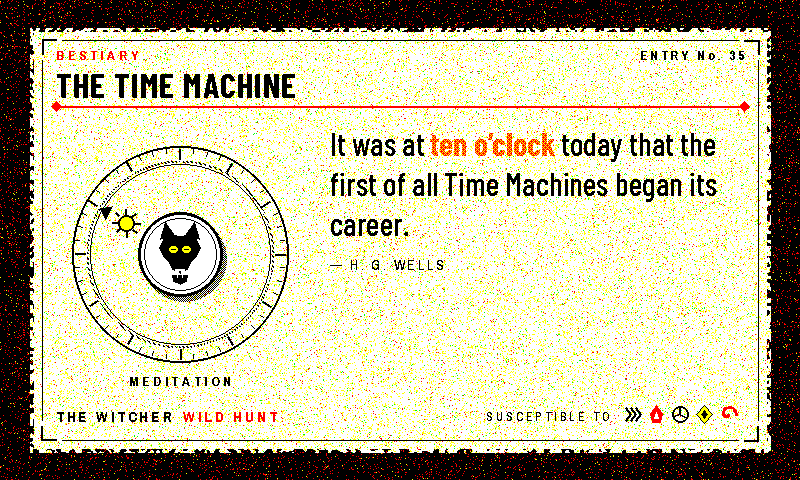
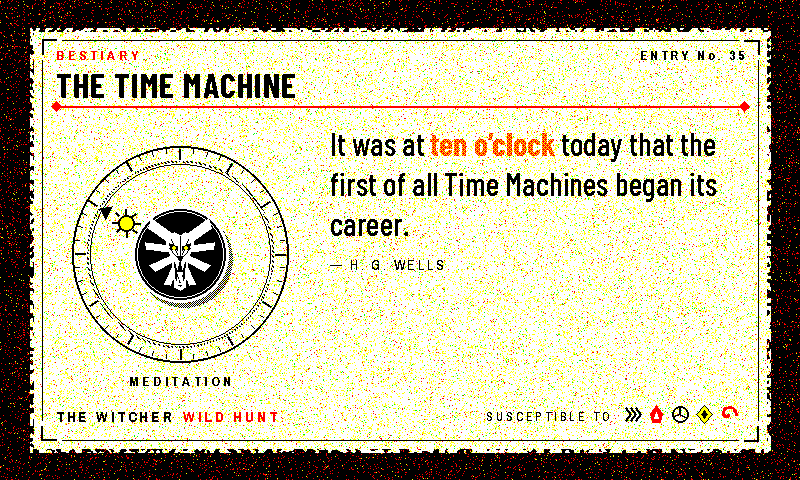
witcher: redraw the medallion after the Wolf School emblem
The first wolf was a generic heraldic head. Redrawn after the game's
medallion, without tracing it: a burst of spikes and horns, a faceted
brow with facet lines cut back in black, slit eyes with a yellow glint,
and the long open jaw with fangs and tongue, in the emblem's own ink —
white on a black disc in a silver double ring. The emblem is a fixed
point list in a 100-unit box, mirrored about the centre line and scaled
to sit inside the inner ring. Golden and preview re-baselined.

Claude-Session: https://claude.ai/code/session_01BdVeHQzCtEYWsdWNe7d8PR

Changed region(s): [[0.1562, 0.4375, 0.3125, 0.6562]]

diff --git a/idle_hours/render_quote.py b/idle_hours/render_quote.py
@@ -31733,12 +31733,15 @@ def render_expedition_frame(time_str: str, quote_row: dict, width: int, height: 
 # with the matched phrase. Nothing prints a digit, nothing reads the wall
 # clock.
 #
-# **The medallion** is the School of the Wolf's: a silver disc (white, with
-# a black stipple shadow cast lower-right) in a double ring, carrying a
-# heraldic wolf's head in black ink — pricked ears, broad brow, open jaw,
-# white fangs, and the eyes the one yellow on the page besides the sun.
-# Drawn from a fixed point list in a 100-unit design box and scaled, so it
-# is the same wolf at every size.
+# **The medallion** is the School of the Wolf's, redrawn after the emblem
+# rather than traced from it (the original is CD Projekt's mark): a black
+# disc with a stipple shadow cast lower-right, in a silver double ring,
+# carrying the wolf in the emblem's own ink — a burst of eight spikes and
+# two horns, a faceted brow with facet lines cut back in black, slit eyes
+# with a yellow glint, and the long open jaw hanging below with its fangs
+# and tongue. Every polygon is a fixed point list in a 100-unit design box,
+# mirrored about the centre line and scaled, so it is the same wolf at
+# every size.
 #
 # **The page** is the ``tarot`` vellum recipe — a Y+W cream under a sparse
 # R+G foxing — inside a deckled edge: the page mask's outer band is eaten
@@ -31776,7 +31779,7 @@ _WITCHER_HEADER_Y = 48
 _WITCHER_HEADER_RULE_Y = 106
 _WITCHER_DIAL_CENTRE = (180, 254)
 _WITCHER_DIAL_RADIUS = 108
-_WITCHER_MEDALLION_RADIUS = 42
+_WITCHER_MEDALLION_RADIUS = 48
 _WITCHER_QUOTE_RECT = (330, 124, 742, 362)
 _WITCHER_ATTRIBUTION_TOP = 372
 _WITCHER_FOOT_Y = 404
@@ -31784,16 +31787,31 @@ _WITCHER_SIGNS_RIGHT = 742
 _WITCHER_CREAM_DENSITY = 0.14
 _WITCHER_FOXING_DENSITY = 0.03
 _WITCHER_PAGE: dict = {}
-# The wolf, in a 100-unit box, nose down. Head, then the two ears, then the
-# lower jaw; the fangs and eyes are cut back out of the ink.
-_WITCHER_WOLF_HEAD = (
-    (26, 28), (38, 22), (50, 26), (62, 22), (74, 28), (82, 44), (74, 58), (66, 66),
-    (62, 78), (50, 84), (38, 78), (34, 66), (26, 58), (18, 44),
+# The wolf, in a 100-unit box, after the School of the Wolf medallion: a
+# faceted head over a burst of spikes, with a long open jaw hanging below.
+# Drawn in the emblem's ink (white on the black disc); the eyes, nose, mouth
+# and facet lines are cut back out in black, the fangs and tongue laid back
+# in white. Every polygon is symmetric about x = 50; the right-hand copies
+# are mirrored at paint time.
+_WITCHER_WOLF_SPIKES_LEFT = (
+    ((42, 26), (10, 2), (6, 16), (34, 36)),            # the horn
+    ((36, 40), (2, 36), (4, 46), (36, 50)),             # the side spike
+    ((38, 54), (8, 68), (16, 76), (42, 62)),            # the lower diagonal
+    ((42, 64), (28, 94), (37, 96), (47, 70)),           # the lower spike
 )
-_WITCHER_WOLF_EARS = (((20, 30), (28, 4), (42, 24)), ((80, 30), (72, 4), (58, 24)))
-_WITCHER_WOLF_JAW = ((38, 86), (62, 86), (60, 96), (50, 100), (40, 96))
-_WITCHER_WOLF_FANGS = (((43, 78), (49, 78), (46, 90)), ((51, 78), (57, 78), (54, 90)))
-_WITCHER_WOLF_EYES = (((34, 42), (46, 50)), ((54, 42), (66, 50)))
+_WITCHER_WOLF_HEAD = (
+    (30, 28), (42, 22), (50, 26), (58, 22), (70, 28), (68, 46), (60, 58), (50, 64), (40, 58), (32, 46),
+)
+_WITCHER_WOLF_JAW = ((40, 60), (60, 60), (58, 98), (50, 102), (42, 98))
+_WITCHER_WOLF_MOUTH = ((43, 64), (57, 64), (55, 94), (50, 97), (45, 94))
+_WITCHER_WOLF_FANGS = (
+    ((44, 64), (48, 64), (46, 73)), ((52, 64), (56, 64), (54, 73)),       # upper
+    ((45, 94), (49, 94), (47, 85)), ((51, 94), (55, 94), (53, 85)),       # lower
+)
+_WITCHER_WOLF_TONGUE = ((47, 77), (53, 77), (50, 90))
+_WITCHER_WOLF_EYE_LEFT = ((35, 38), (46, 42), (46, 47), (37, 46))
+_WITCHER_WOLF_NOSE = ((45, 56), (55, 56), (50, 62))
+_WITCHER_WOLF_FACETS = (((50, 28), (50, 55)), ((38, 32), (47, 52)), ((62, 32), (53, 52)), ((36, 44), (44, 54)), ((64, 44), (56, 54)))
 _WITCHER_SIGNS = ("AARD", "IGNI", "YRDEN", "QUEN", "AXII")
 
 
@@ -31896,9 +31914,13 @@ def _witcher_wolf(scale: float, origin: tuple[float, float]):
     return lambda pts: [(ox + x * scale, oy + y * scale) for x, y in pts]
 
 
+def _witcher_mirror(pts):
+    return tuple((100 - x, y) for x, y in pts)
+
+
 def _witcher_paint_medallion(image: Image.Image) -> None:
-    """The Wolf School medallion at the dial's hub: a silver disc with a cast
-    shadow, a double ring, and the heraldic wolf in black ink."""
+    """The Wolf School medallion at the dial's hub: a black disc with a cast
+    shadow in a silver double ring, carrying the wolf in the emblem's ink."""
     draw = ImageDraw.Draw(image)
     black, white, yellow = SPECTRA6["black"], SPECTRA6["white"], SPECTRA6["yellow"]
     cx, cy = _WITCHER_DIAL_CENTRE
@@ -31912,20 +31934,30 @@ def _witcher_paint_medallion(image: Image.Image) -> None:
         for x in range(cx - r + 4, cx + r + 5):
             if sp[x, y] and row[x % 4] < 8 and px[x, y] != black:
                 px[x, y] = black
-    draw.ellipse((cx - r, cy - r, cx + r, cy + r), fill=white, outline=black, width=3)
-    draw.ellipse((cx - r + 6, cy - r + 6, cx + r - 6, cy + r - 6), outline=black, width=1)
-    size = (r - 10) * 2
-    place = _witcher_wolf(size / 100.0, (cx - size / 2, cy - size / 2 - 2))
-    for ear in _WITCHER_WOLF_EARS:
-        draw.polygon(place(ear), fill=black)
-    draw.polygon(place(_WITCHER_WOLF_HEAD), fill=black)
-    draw.polygon(place(_WITCHER_WOLF_JAW), fill=black)
+    draw.ellipse((cx - r, cy - r, cx + r, cy + r), fill=black, outline=white, width=3)
+    draw.ellipse((cx - r + 5, cy - r + 5, cx + r - 5, cy + r - 5), outline=white, width=1)
+    # The emblem's box runs 2..102 vertically (the horn tips to the jaw), so
+    # it is centred on (50, 52) and scaled to sit inside the inner ring.
+    scale = (r - 12) * 2 / 100.0
+    place = _witcher_wolf(scale, (cx - 50 * scale, cy - 52 * scale))
+    for spike in _WITCHER_WOLF_SPIKES_LEFT:
+        draw.polygon(place(spike), fill=white)
+        draw.polygon(place(_witcher_mirror(spike)), fill=white)
+    draw.polygon(place(_WITCHER_WOLF_JAW), fill=white)
+    draw.polygon(place(_WITCHER_WOLF_HEAD), fill=white)
+    draw.polygon(place(_WITCHER_WOLF_MOUTH), fill=black)
     for fang in _WITCHER_WOLF_FANGS:
         draw.polygon(place(fang), fill=white)
-    for (ex0, ey0), (ex1, ey1) in _WITCHER_WOLF_EYES:
-        (ax, ay), (bx, by) = place(((ex0, ey0), (ex1, ey1)))
-        draw.ellipse((ax, ay, bx, by), fill=yellow)
-        draw.line([(ax + 2, (ay + by) / 2), (bx - 2, (ay + by) / 2)], fill=black, width=1)
+    draw.polygon(place(_WITCHER_WOLF_TONGUE), fill=white)
+    draw.polygon(place(_WITCHER_WOLF_EYE_LEFT), fill=black)
+    draw.polygon(place(_witcher_mirror(_WITCHER_WOLF_EYE_LEFT)), fill=black)
+    draw.polygon(place(_WITCHER_WOLF_NOSE), fill=black)
+    for a, b in _WITCHER_WOLF_FACETS:
+        draw.line(place((a, b)), fill=black, width=1)
+    # The eyes catch the one light on the page: a yellow glint in each slit.
+    for (ex, ey) in ((41, 43), (59, 43)):
+        gx, gy = place(((ex, ey),))[0]
+        draw.ellipse((gx - 1.5, gy - 1.5, gx + 1.5, gy + 1.5), fill=yellow)
 
 
 def _witcher_page() -> Image.Image:

diff --git a/tests/test_render_quote_themes.py b/tests/test_render_quote_themes.py
@@ -6144,9 +6144,9 @@ class TestWitcherFrame:
         cx, cy = rq._WITCHER_DIAL_CENTRE
         r = rq._WITCHER_MEDALLION_RADIUS
         counts = ink_counts(self._render().crop((cx - r, cy - r, cx + r, cy + r)))
-        assert counts.get(rq.SPECTRA6["black"], 0) > 900      # the wolf and the rings
-        assert counts.get(rq.SPECTRA6["white"], 0) > 1500     # the silver disc
-        assert counts.get(rq.SPECTRA6["yellow"], 0) > 40      # the eyes
+        assert counts.get(rq.SPECTRA6["black"], 0) > 2500     # the disc and the cut-back features
+        assert counts.get(rq.SPECTRA6["white"], 0) > 2500     # the emblem and the silver rings
+        assert counts.get(rq.SPECTRA6["yellow"], 0) > 20      # the glint in each eye
 
     def test_quote_is_black_with_a_tangerine_phrase(self):
         counts = ink_counts(self._render().crop(rq._WITCHER_QUOTE_RECT))

diff --git a/docs/themes.md b/docs/themes.md
@@ -201,7 +201,7 @@ Two of those additions failed on their first cut, in the same direction: **too m
     **Composition.** Hazard-stripe bands across the head and foot; a header with the Standard's name, four status lamps (blue / green / yellow / red — which is also what guarantees all six inks at every hour) and the section number; the featured sign large at the left with its legend number and name; three companion signs beneath it; and the quote on a crew-notice placard framed the way Cobb framed a sign — white edge, red band, white panel — with the band broken where the header and footer rules cross it. Black Barlow Condensed prose and a solid-red matched phrase are pasted from thresholded masks (`wrap_quote_into_masks`), the attribution fitted along the foot. The notice's reference number is `_row_digest`-derived. **The hour is the section**: the featured sign comes from `_SEMIOTIC_HOUR_SIGNS` (twelve distinct signs) and the header reads `SECTION 07` — a location on the ship, which is what the Standard is for. Hour only, the `cardcatalog` / `observation` posture, pinned byte-identical across every minute; the three companions come from `_row_digest`, so a different quote is a different stretch of corridor. A missing sheet degrades to blank red-framed panels. Composed at the canonical 800×480 and NEAREST-downsampled (the `metro` convention). Saturation tier `0.7`.)
   - `atropos` (black night / teal B+G fog dithered to the cold inks / white Saira body / tangerine matched phrase, Michroma HUD — **Housemarque's *Returnal* (2021)**, night in the Overgrown Ruins of Atropos. A custom-render frame (`render_atropos_frame`). Selene Vassos crash-lands on a planet that kills her and starts her again, and every cycle she walks the same rain-soaked ruins of a civilisation whose statues are taller than her ship; the page is one of those nights, with the HUD laid over it and the quote as a **xenoglyph cipher** the scout has just translated. **Two passes, two palettes.** The night is painted in continuous tone — a per-row gradient from a black zenith to a lit teal horizon, fog banked by stretched seeded noise, pools of lit fog behind the near Sentient and round the wreck, rain as hundreds of slanted streaks, a far skyline of monoliths, the ring gate half sunk with the fog brighter through it, layered stone pillars, the *Helios* on its nose with its cabin windows lit, two Sentient statues (the long crested skull swept back, sloped shoulders, arms hanging to elongated hands) in atmospheric perspective with a teal rim where the fog catches the near one, the cipher slab, and the wet plain reflecting the horizon in vertical streaks — then **Floyd–Steinberg-dithered to black / blue / green / white only**, the `biomech` recipe inverted: red and yellow are left out of the quantiser so error diffusion can never warm the night. The teal is the B+G mix at a density that *falls* with the fog rather than a fixed ratio, which is why it is dithered rather than stippled. The black tendrils (`_atropos_tendril_paths`, a seeded random walk per root pulled toward a target, tapering stems with a rim pass and side shoots) are painted into the same scene. Everything that glows is laid on afterwards through `paint_neon_mask` with `ground` pinned to the three cold inks: the ember nodules on the tendrils, the *Helios* beacon and the xenotech seams on the Sentient's crest and chest are a solid yellow core in a red + yellow halo; the volley of orbs — a different pattern per quote, seeded from `_row_digest` — are yellow with a white-hot centre in the same halo, or white in an R+B violet one, each with a fading trail; the matched phrase is the tangerine recipe proper (red with yellow at 3/8). **The scene lights carry yellow at 1/2 rather than 3/8**: on the calibrated panel red is nearly black, and a halo five-eighths red reads as a shadow round the core, not as light; the phrase keeps the 3/8 recipe because it sits on pure black where the hue is what matters. **The cipher is the quote in alien script.** `_atropos_glyph` builds a 26-letter alphabet once from a fixed seed — three to five strokes on a 3×4 lattice plus an optional dot, the angular carved register of the game's glyph walls — and the slab carries the matched phrase and then the quote letter for letter, so the same letter is always the same glyph; the strokes are 1 px white, one ink, which survives the snap where a two-ink stipple at that size would not. **The quote** sits in the black zenith as white Michroma over a black halo (the `biomech` answer — a halo, not a panel, so the scene stays visible), inside corner brackets labelled `XENOGLYPH CIPHER` / `TRANSLATED`, with the attribution as the cipher's source line. **The HUD**: the biome title top-left, an integrity bar and adrenaline pips bottom-left whose readings are seeded from the quote (a different quote is a different run), and a `HELIOS UPLINK — NO SIGNAL` readout bottom-right. **The time is the cycle counter, hour only** — `CYCLE 07` top-right, the way the game's scout logs are numbered; a designation a reader parses as a run, not a clock (the `cardcatalog` due-hour / `observation` camera posture). The minute stays with the matched phrase, pinned byte-identical across the minutes of an hour by `TestAtroposFrame`. The scene is quote-independent and cached once per process (`_ATROPOS_BACKGROUND`, keyed on the painters themselves, the `biomech` pattern, so the decoration fence measures a painter and not a cache). Nothing reads the wall clock. Surfaces all six inks (pinned). Composed at the canonical 800×480 and NEAREST-downsampled (the `metro` convention). Saturation tier `0.7`.)
   - `expedition` (black zenith / dusk dithered against the calibrated inks / white IM Fell Double Pica body / painted-yellow Fell-italic matched phrase — **Sandfall Interactive's *Clair Obscur: Expedition 33* (2025)**, the Monolith seen from the Lumière promenade. A custom-render frame (`render_expedition_frame`). Once a year the Paintress wakes and paints a number on the Monolith across the water, and everyone of that age turns to petals; the page is the view every citizen of Lumière lives under — the promenade's balustrade and a Belle Époque gas lamp in the foreground, the dusk sea, and on the islet the Monolith with the Paintress seated beside it, brush raised, and the number she has just painted is the **hour**. **Clair-obscur, literally:** black silhouettes against one warm light. The scene is painted in continuous tone — a per-row dusk from a blue-black zenith through violet and rose to an amber horizon, a radial glow pooled behind the Monolith, a vignette keeping the journal's corner dark, the sea with shimmer streaks and the glow's broken reflection, every silhouette (the slab with a rim of the glow down each edge and the rocks of its islet, the Paintress with her hair down her back and a raised knee, the Continent's coast hazed on the far horizon, the balustrade's vase balusters lit toward the lamp, the lamp's post, bracket curls and lantern cage), and a brush-stroke facture multiplied over all of it — then Floyd–Steinberg-dithered. **Dithered against the calibrated inks** (`_expedition_dither`): every tone is specified in the panel's measured colour space and the quantiser is handed those measured colours, so diffusion decides how much red a violet needs against what red actually looks like on the panel — nearly black — and the chosen indices are re-labelled with the nominal inks afterwards; designed in nominal RGB the dusk looked right on a monitor and went to mud on the panel. The sky is quantised without green, the sea with it, so the lit water can be the B+G teal of the recipe table. **The number is paint** (`_expedition_numeral_mask`): Bebas Neue — the game's own numeral face, and a tall narrow stroke is what the Paintress's number looks like on the slab — roughed into a brushed stroke with bristle gaps carved by a streaked noise, edges that swell and bite by a second noise's threshold, drips run from its lowest points and a flick beside it, painted through `paint_neon_mask` as a yellow core with white at 1/4 in a red + yellow halo at 1/2 (the `atropos` scene-light argument: a 5/8-red halo reads as shadow on the panel), with its reflection flipped over the horizon, broken by the shimmer and faded with depth as a two-ink density stipple (`_expedition_stipple_field`); the Paintress's brush tip reaches into the halo, so she is painting it. **The petals are the Gommage**: a gust rises from the promenade, crosses the water below the journal page and streams past the Paintress to the number — a cubic path, each petal a teardrop polygon filled with the R+W pink stipple, a white rim toward the light and a red one away from it, sizes falling along the path so the near ones are the viewer's and the far ones motes, seeded from `_row_digest` (a different quote is a different gust) and kept out of the page, the byline, the wordmark, the credo and the number. **The chroma**: `paint_flow_strokes` through a field that is the tangent of circles about the number mixed with a wind — the swirl the Paintress's work leaves in the sky — blue and a few white strokes in the cold sky, red and yellow flecks near the glow. **The quote** is the journal page: white Fell roman over a black halo (a halo, not a panel, so the dusk stays visible) with the matched phrase in Fell italic and the number's own paint, so the readable time and the painted one are the same fact, and the byline in gold Bebas capitals beneath. `CLAIR OBSCUR` in Bebas over `EXPEDITION 33` in spaced Cinzel Decorative capitals top-left, over a gold hairline with a diamond — the ornament the game's whole interface is drawn in — and the expedition's credo at the foot; gold is solid yellow, since small text in a stipple shreds. **Time surfaces:** the number is hour-only, pinned byte-identical across the minutes of an hour by `TestExpeditionFrame`; the minute stays with the matched phrase; nothing prints digits beyond the hour and nothing reads the wall clock. The scene is quote- and hour-independent and cached once per process (`_EXPEDITION_BACKGROUND`, keyed on the painters themselves, the `atropos` / `biomech` pattern). Surfaces all six inks (pinned). Composed at the canonical 800×480 and NEAREST-downsampled (the `metro` convention). Saturation tier `0.7`.)
-  - `witcher` (cream deckled parchment / dark binding / black Barlow Condensed body / tangerine matched phrase — **CD Projekt Red's *The Witcher 3: Wild Hunt* (2015)**, a bestiary page under the meditation dial. A custom-render frame (`render_witcher_frame`). Geralt's journal is the game's reading surface — a worn page in a dark leather binding, an entry headed in condensed capitals over a thin red rule, an opening quotation attributed to whoever said it, and a line of what the creature is susceptible to at the foot — and the page is one of those entries: the book is the entry, the quote its epigraph, the Gutenberg ID its entry number (real data, not an invented catalogue figure). **The page** is the `tarot` vellum recipe (Y+W cream under a sparse R+G foxing) inside a deckled edge: the page mask's outer band is eaten by a seeded noise so the binding shows through a torn margin rather than a ruled one; the binding is black with a sparse red fleck, which is how six inks spell dark brown. Rules with notched corners and a red header rule with diamond ends are the game's thin-line chrome. **The meditation dial is the time carrier, hour-only**: two engraved rings with a hatched band between them, twelve major and forty-eight minor ticks, a pointer on the tick train and one marker on the hour's radius — a sun by day, a crescent by night (which one is the 24-hour hour, still hour-only, pinned byte-identical across the minutes of an hour by `TestWitcherFrame`); the minute stays with the matched phrase and nothing prints a digit. **The Wolf School medallion** hangs at the hub: a silver disc (white, with a black stipple shadow cast lower-right) in a double ring carrying a heraldic wolf's head in black ink — pricked ears, broad brow, open jaw, white fangs, yellow eyes — drawn from a fixed point list in a 100-unit design box and scaled. **The quote** is the entry's epigraph in Barlow Condensed Medium, ragged right, with the matched phrase Bold in the interface's red-orange (the R+Y tangerine stipple) and the author beneath it; the five signs — Aard, Igni, Yrden, Quen, Axii — are drawn as icons at the foot and the ones this entry is "susceptible to" are filled in their in-game colours (Aard blue, Igni red, Yrden blue with red spokes, Quen gold, Axii red), chosen by `_row_digest`, which is also where the page's blue comes from. The page is quote- and hour-independent and cached once per process (`_WITCHER_PAGE`, keyed on the painters). Nothing reads the wall clock. Surfaces all six inks (pinned). Composed at the canonical 800×480 and NEAREST-downsampled (the `metro` convention). Saturation tier `0.5`.)
+  - `witcher` (cream deckled parchment / dark binding / black Barlow Condensed body / tangerine matched phrase — **CD Projekt Red's *The Witcher 3: Wild Hunt* (2015)**, a bestiary page under the meditation dial. A custom-render frame (`render_witcher_frame`). Geralt's journal is the game's reading surface — a worn page in a dark leather binding, an entry headed in condensed capitals over a thin red rule, an opening quotation attributed to whoever said it, and a line of what the creature is susceptible to at the foot — and the page is one of those entries: the book is the entry, the quote its epigraph, the Gutenberg ID its entry number (real data, not an invented catalogue figure). **The page** is the `tarot` vellum recipe (Y+W cream under a sparse R+G foxing) inside a deckled edge: the page mask's outer band is eaten by a seeded noise so the binding shows through a torn margin rather than a ruled one; the binding is black with a sparse red fleck, which is how six inks spell dark brown. Rules with notched corners and a red header rule with diamond ends are the game's thin-line chrome. **The meditation dial is the time carrier, hour-only**: two engraved rings with a hatched band between them, twelve major and forty-eight minor ticks, a pointer on the tick train and one marker on the hour's radius — a sun by day, a crescent by night (which one is the 24-hour hour, still hour-only, pinned byte-identical across the minutes of an hour by `TestWitcherFrame`); the minute stays with the matched phrase and nothing prints a digit. **The Wolf School medallion** hangs at the hub, redrawn after the emblem rather than traced from it (the original is CD Projekt's mark): a black disc with a stipple shadow cast lower-right in a silver double ring, carrying the wolf in the emblem's own ink — a burst of eight spikes and two horns, a faceted brow with its facet lines cut back in black, slit eyes with a yellow glint, and the long open jaw hanging below with fangs and tongue — every polygon a fixed point list in a 100-unit design box, mirrored about the centre line and scaled. **The quote** is the entry's epigraph in Barlow Condensed Medium, ragged right, with the matched phrase Bold in the interface's red-orange (the R+Y tangerine stipple) and the author beneath it; the five signs — Aard, Igni, Yrden, Quen, Axii — are drawn as icons at the foot and the ones this entry is "susceptible to" are filled in their in-game colours (Aard blue, Igni red, Yrden blue with red spokes, Quen gold, Axii red), chosen by `_row_digest`, which is also where the page's blue comes from. The page is quote- and hour-independent and cached once per process (`_WITCHER_PAGE`, keyed on the painters). Nothing reads the wall clock. Surfaces all six inks (pinned). Composed at the canonical 800×480 and NEAREST-downsampled (the `metro` convention). Saturation tier `0.5`.)
   - `saros` (black sky / diffusion-dithered red-and-gold corona / white Saira body / ember matched phrase, Orbitron wordmark and Michroma chrome — **Housemarque's *Saros* (2026)**, the eclipse that hangs over the colony of Carcosa. A custom-render frame (`render_saros_frame`).
     **The corona is painted in continuous tone and dithered, not stippled.** `_saros_corona_field` evaluates a radial profile per pixel at a quarter of panel resolution (`_SAROS_SKY_STEP`; a glow has no finer detail) and bicubic-upsamples it: a chromospheric rim decaying over 0.06 radii, a mid corona over 0.36, an outer haze over 1.1, and eight **streamers** (`_SAROS_STREAMERS` — angular Gaussian lobes that brighten the mid and outer terms along their axes, asymmetric on purpose, a few long plumes and short brushes rather than a halo). A **sunset band** rings the horizon (`_saros_dusk`, an exponential up from the ground line, strongest under the sun and a third as bright at the edges — what a total eclipse's horizon actually does, and what cuts every silhouette out of the sky), and a cold **blue haze** pools low on the left, away from the sun (`_saros_haze`). The photosphere disc and the moon are then painted sharp at full resolution, because the exposed sliver is the one hard edge in the sky, and the field is Floyd–Steinberg-dithered to K/R/Y/W + blue (`_SAROS_SKY_PALETTE`) — the `biomech` dusk recipe. **The fire carries no blue channel**: a blue value in the corona is an error that diffusion eventually pays out as a blue speck in the fire (the first cut had them), so blue exists only in the haze, and `TestSarosFrame::test_the_corona_holds_no_blue` pins it. Green is never used.
     **The time is the eclipse's phase.** At twelve the moon (`_SAROS_MOON_SCALE`, a shade larger than the sun so totality is total) sits dead centre: a black disc, the rim, a symmetric corona. At every other hour it is offset `_SAROS_HOUR_OFFSET` radii *away* from the hour's place on a clock face, so a sliver of photosphere shows through on the hour's side and the **diamond ring** — a white bead in a yellow bloom with a horizontal lens spike (`_saros_paint_bead`) — sits where the hour hand would point. The bead *is* the hand; the wordmark's O, a small eclipse, carries the same bead; the status line's occlusion figure (`_saros_occlusion`, the two-disc lens formula) is derived from the same geometry. Hour only, the `cardcatalog` / `observation` posture, pinned byte-identical across every minute of an hour; the matched phrase carries the readable time.
